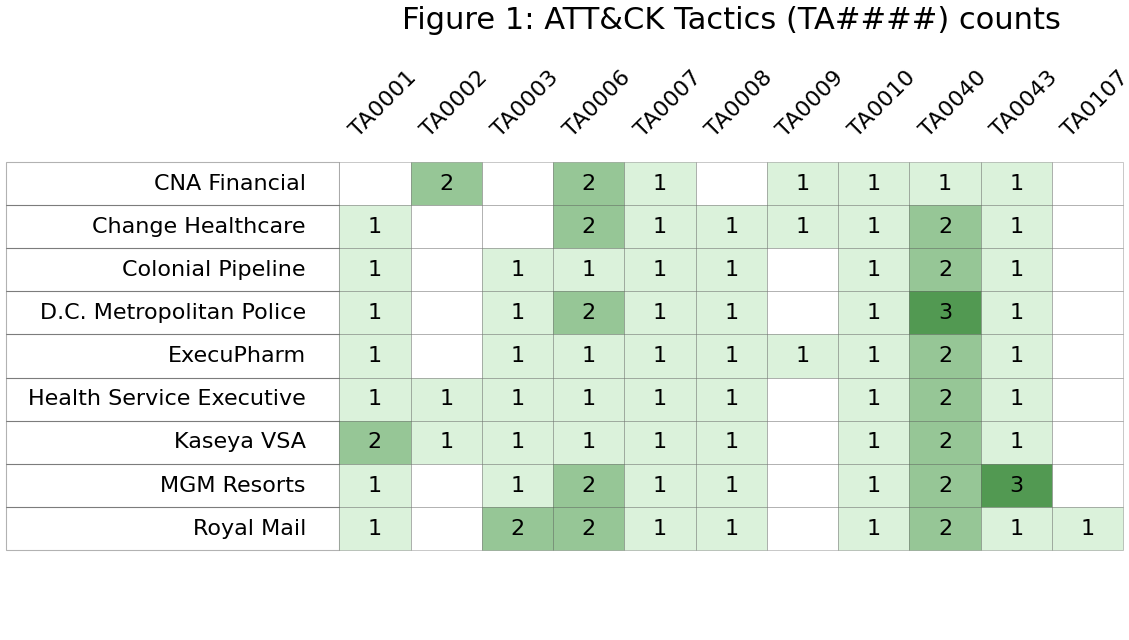
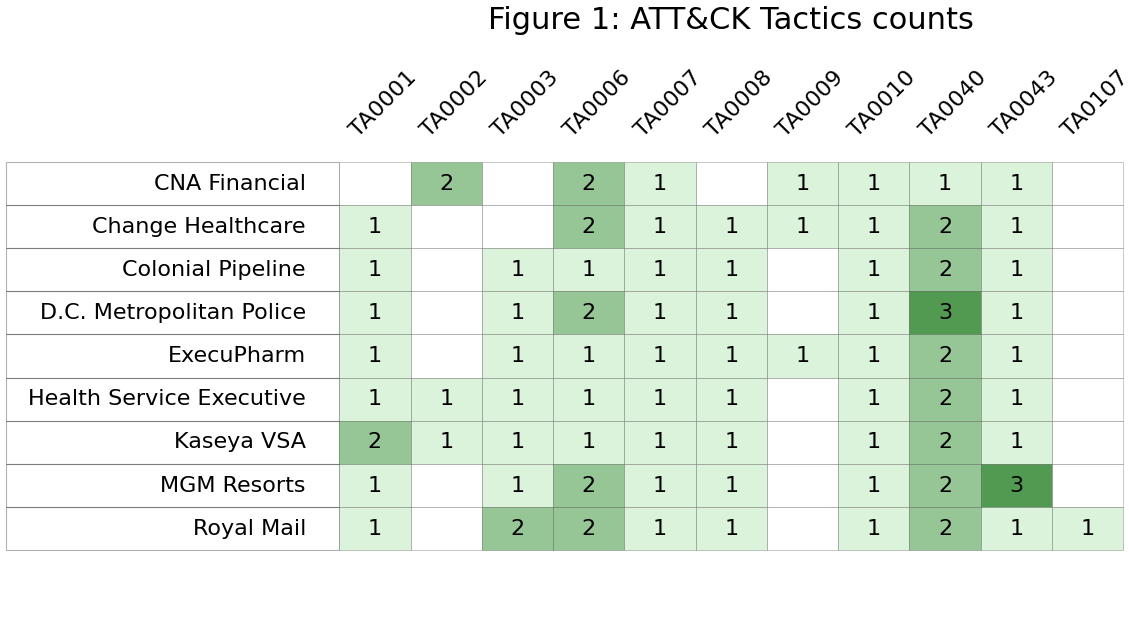
Sweet, sweet sweet

Changed region(s): [[0.341, 0.0, 0.93, 0.0625]]

diff --git a/scripts/frequency.py b/scripts/frequency.py
@@ -61,10 +61,26 @@ def write_csv(rows, cols, counts, out_csv: Path):
     out_csv.parent.mkdir(parents=True, exist_ok=True)
     with out_csv.open("w", newline="", encoding="utf-8") as fh:
         w = csv.writer(fh)
-        w.writerow(["Case"] + cols)
+
+        # Header: codes + "Total"
+        w.writerow(["Case"] + cols + ["Total"])
+
+        # Body: each case + row total
+        col_totals = [0] * len(cols)
+        grand_total = 0
+
         for r in rows:
             c = counts.get(r, Counter())
-            w.writerow([r] + [c.get(code, 0) for code in cols])
+            vals = [c.get(code, 0) for code in cols]
+            row_total = sum(vals)
+            w.writerow([r] + vals + [row_total])
+
+            # accumulate column totals
+            col_totals = [a + b for a, b in zip(col_totals, vals)]
+            grand_total += row_total
+
+        # Footer: TOTAL row (column sums + grand total)
+        w.writerow(["TOTAL"] + col_totals + [grand_total])
 
 # ---------- Renderer ----------
 def save_table_png(title, rows, cols, counts, out_png: Path):
@@ -147,6 +163,54 @@ def save_table_png(title, rows, cols, counts, out_png: Path):
     fig.savefig(out_png, bbox_inches="tight", pad_inches=0.03)
     plt.close(fig)
 
+# ---------- Histograms ----------
+def save_hist_png_sorted_by_code(title, rows, cols, counts, out_png, include_zeros=True):
+    """
+    Sum counts across all cases for each code in cols, then plot a vertical bar chart.
+    - Sorted by code label (lexicographic)
+    - Bars colored with COLOR_2_MID
+    - Y-axis is the count
+    """
+    # Totals per code (keep zeros if requested)
+    totals = []
+    for code in cols:
+        s = sum(counts.get(r, Counter()).get(code, 0) for r in rows)
+        if include_zeros or s > 0:
+            totals.append((code, s))
+
+    # Sort by code (tactic/tech label)
+    totals.sort(key=lambda x: x[0])
+
+    if not totals:
+        print(f"[warn] No totals for {title}; skipping plot.")
+        return
+
+    labels, values = zip(*totals)
+    n = len(values)
+
+    # Dynamic sizing: widen with number of codes
+    fig_w = max(6.5, 0.4 * n + 2.0)
+    fig_h = 4.5
+
+    fig, ax = plt.subplots(figsize=(fig_w, fig_h), dpi=200)
+    ax.bar(range(n), values, color=COLOR_2_MID)  # mid green
+    ax.set_xticks(range(n), labels, rotation=60, ha="right")
+    ax.set_ylabel("Count")
+    ax.set_title(title, pad=6)
+
+    # Light grid & value labels
+    ax.grid(axis="y", linestyle="--", alpha=0.3)
+    ymax = max(values) if values else 1
+    for i, v in enumerate(values):
+        ax.text(i, v + ymax*0.02, str(v), va="bottom", ha="center", fontsize=8)
+
+    plt.tight_layout()
+    out_png.parent.mkdir(parents=True, exist_ok=True)
+    fig.savefig(out_png, bbox_inches="tight", pad_inches=0.03)
+    plt.close(fig)
+
+
+
 # ---------- Run ----------
 if __name__ == "__main__":
     counts, ta_cols, t_cols = collect_counts()
@@ -157,10 +221,15 @@ if __name__ == "__main__":
     t_png  = out_dir / "T_table.png"
     ta_csv = out_dir / "TA_table.csv"
     t_csv  = out_dir / "T_table.csv"
+    ta_hist_png = out_dir / "TA_hist.png"
+    t_hist_png  = out_dir / "T_hist.png"
+
 
     # PNGs
-    save_table_png("Figure 1: ATT&CK Tactics (TA####) counts", row_order, ta_cols, counts, ta_png)
-    save_table_png("Figure 2: ATT&CK Techniques (T####) counts", row_order, t_cols, counts, t_png)
+    save_table_png("Figure 1: ATT&CK Tactics counts", row_order, ta_cols, counts, ta_png)
+    save_table_png("Figure 2: ATT&CK Techniques counts", row_order, t_cols, counts, t_png)
+    save_hist_png_sorted_by_code("Figure 3: ATT&CK Tactics frequency", row_order, ta_cols, counts, ta_hist_png)
+    save_hist_png_sorted_by_code("Figure 4: ATT&CK Techniques frequency", row_order, t_cols, counts, t_hist_png)
 
     # CSVs
     write_csv(row_order, ta_cols, counts, ta_csv)
